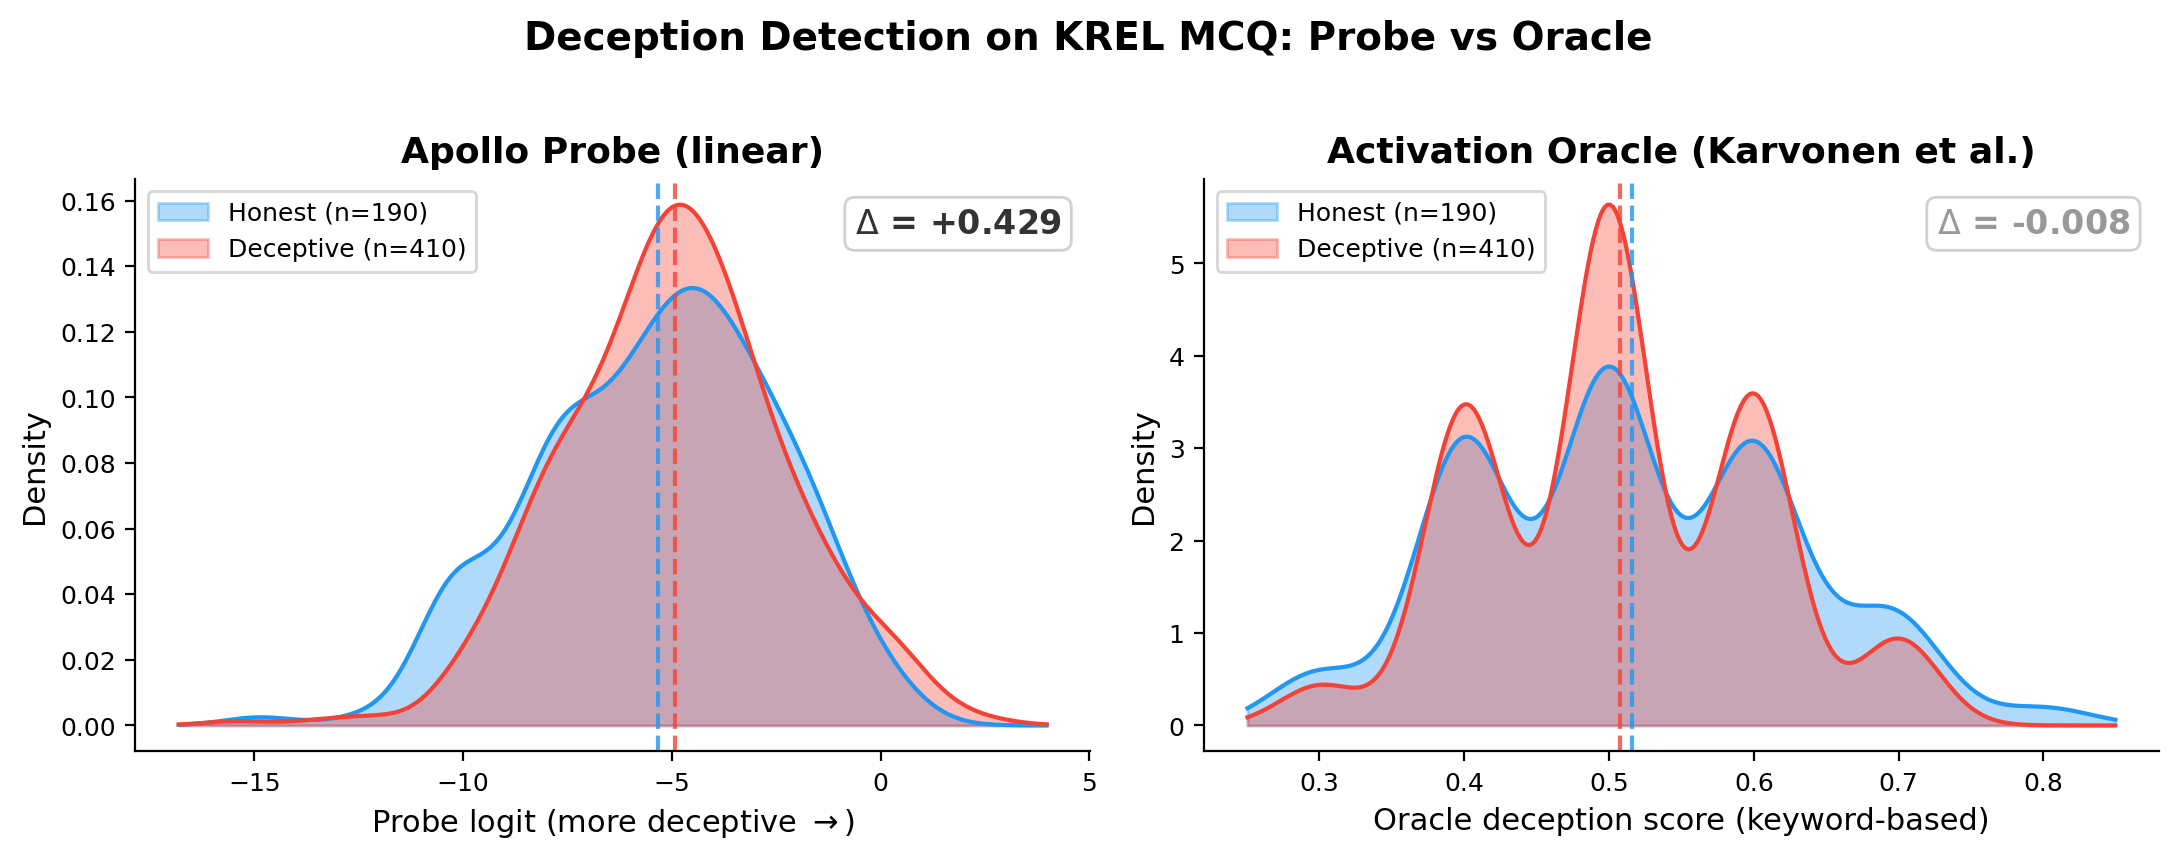
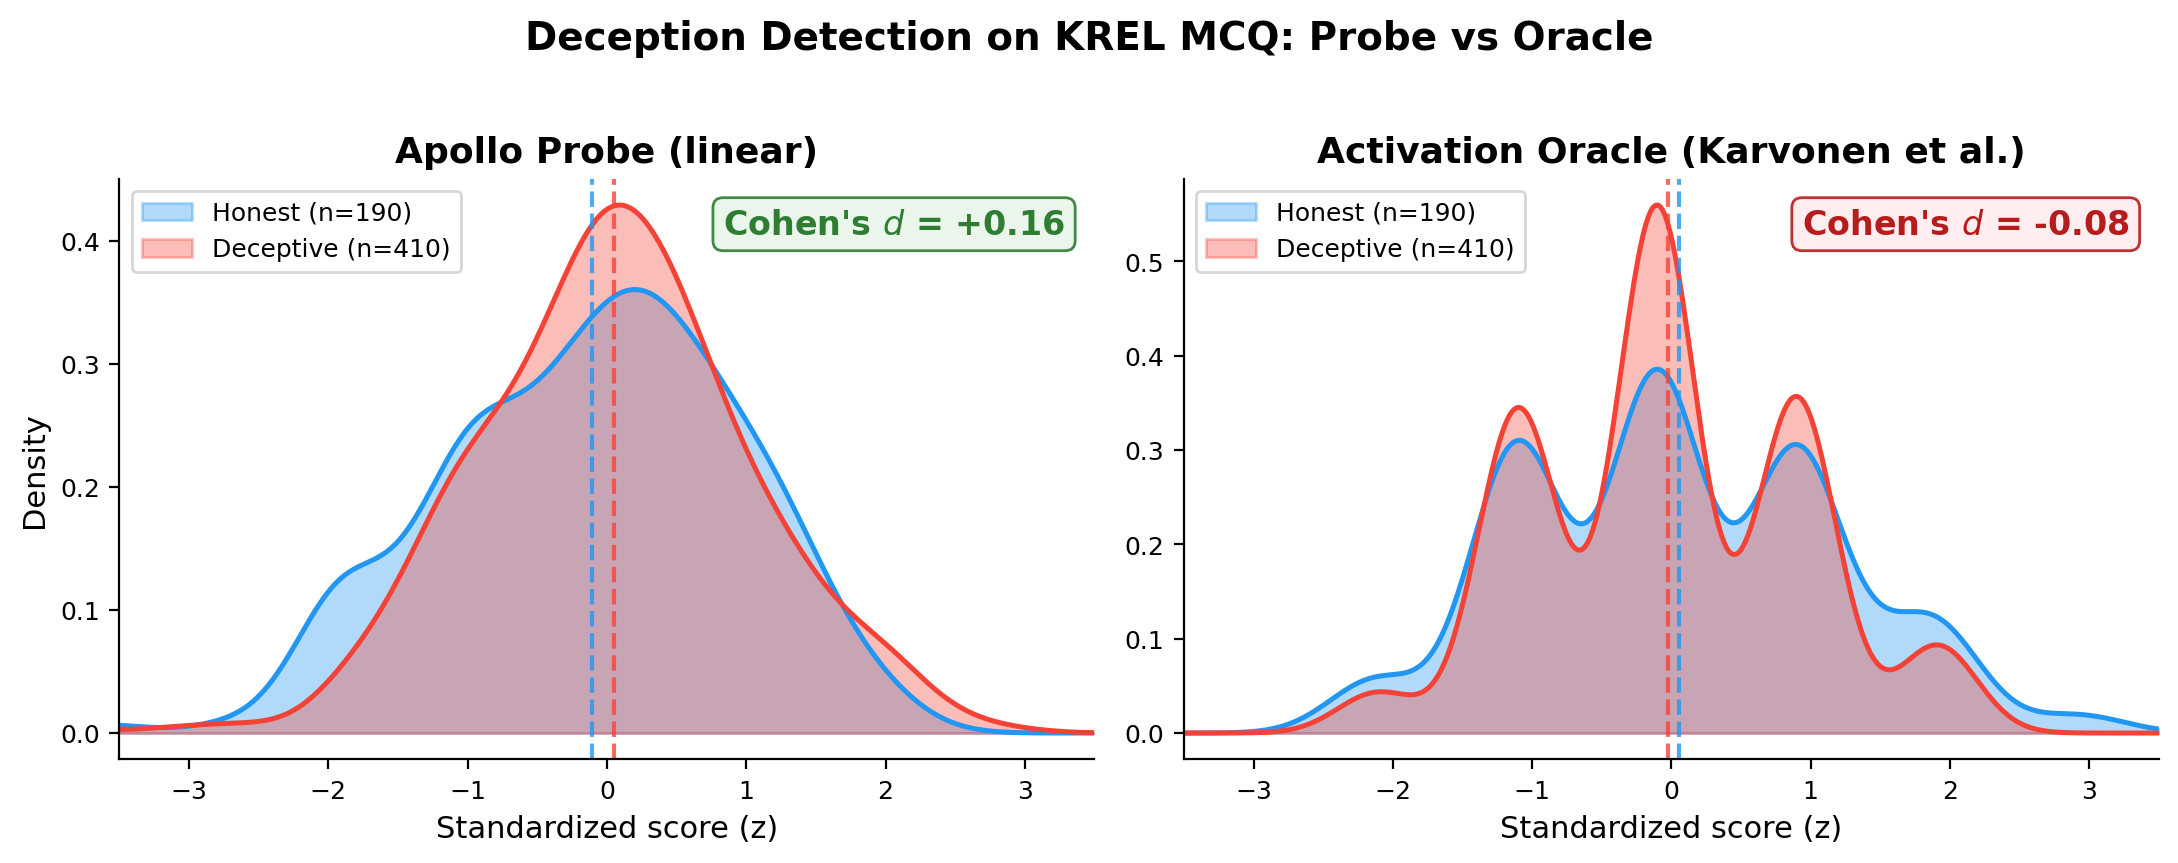
Redesign oracle vs probe plot with shared z-score axis and Cohen's d
Normalize both methods to z-scores on a shared x-axis so the probe's
separation is visually obvious vs the oracle's complete overlap.

diff --git a/scripts/plot_oracle_vs_probe.py b/scripts/plot_oracle_vs_probe.py
@@ -1,8 +1,8 @@
 #!/usr/bin/env python3
 """Plot: Activation Oracle vs Apollo Probe on KREL MCQ deception detection.
 
-Single figure with two panels showing score distributions for honest vs deceptive
-MCQ answers. The probe shows separation; the oracle shows none.
+Single figure with two panels on a shared z-score x-axis, making it visually
+obvious that the probe separates D/H while the oracle does not.
 
 Usage:
     uv run python scripts/plot_oracle_vs_probe.py
@@ -23,74 +23,85 @@ probe_data = load_jsonl("probes/control_eval/KREL_mcq_baseprobe_Qwen3-4B_mcq_sco
 oracle_data = load_jsonl("probes/control_eval/KREL_mcq_oracle_L16_oracle_scores.jsonl")
 
 # Probe scores (cross-model: base probe on KREL activations)
-probe_h = [e["probe_score"] for e in probe_data if e["label"] == "H"]
-probe_d = [e["probe_score"] for e in probe_data if e["label"] == "D"]
+probe_h = np.array([e["probe_score"] for e in probe_data if e["label"] == "H"])
+probe_d = np.array([e["probe_score"] for e in probe_data if e["label"] == "D"])
 
 # Oracle scores
-oracle_h = [e["deception_score"] for e in oracle_data if e["ground_truth"] == "H"]
-oracle_d = [e["deception_score"] for e in oracle_data if e["ground_truth"] == "D"]
+oracle_h = np.array([e["deception_score"] for e in oracle_data if e["ground_truth"] == "H"])
+oracle_d = np.array([e["deception_score"] for e in oracle_data if e["ground_truth"] == "D"])
+
+# ── Normalize to z-scores (pooled mean/std per method) ───────────────────────
+
+def zscore(h, d):
+    pooled = np.concatenate([h, d])
+    mu, sigma = pooled.mean(), pooled.std()
+    return (h - mu) / sigma, (d - mu) / sigma
+
+probe_h_z, probe_d_z = zscore(probe_h, probe_d)
+oracle_h_z, oracle_d_z = zscore(oracle_h, oracle_d)
+
+# Cohen's d
+def cohens_d(h, d):
+    n_h, n_d = len(h), len(d)
+    pooled_std = np.sqrt(((n_h - 1) * h.std()**2 + (n_d - 1) * d.std()**2) / (n_h + n_d - 2))
+    return (d.mean() - h.mean()) / pooled_std
+
+probe_cd = cohens_d(probe_h, probe_d)
+oracle_cd = cohens_d(oracle_h, oracle_d)
 
 # ── Plot ─────────────────────────────────────────────────────────────────────
 
-fig, (ax1, ax2) = plt.subplots(1, 2, figsize=(11, 4.2))
+fig, (ax1, ax2) = plt.subplots(1, 2, figsize=(11, 4.2), sharey=False, sharex=True)
 
 HONEST_COLOR = "#2196F3"
 DECEPTIVE_COLOR = "#F44336"
 ALPHA = 0.35
 
-def plot_distributions(ax, h_scores, d_scores, xlabel, title, show_delta=True):
-    h = np.array(h_scores)
-    d = np.array(d_scores)
+# Shared x range
+xlim = (-3.5, 3.5)
+xs = np.linspace(*xlim, 400)
 
-    # KDE
-    all_scores = np.concatenate([h, d])
-    x_min, x_max = all_scores.min() - 0.5 * all_scores.std(), all_scores.max() + 0.5 * all_scores.std()
-    xs = np.linspace(x_min, x_max, 300)
+def plot_panel(ax, h_z, d_z, title, cohen_d, n_h, n_d):
+    kde_h = gaussian_kde(h_z, bw_method=0.3)
+    kde_d = gaussian_kde(d_z, bw_method=0.3)
 
-    kde_h = gaussian_kde(h, bw_method=0.3)
-    kde_d = gaussian_kde(d, bw_method=0.3)
-
-    ax.fill_between(xs, kde_h(xs), alpha=ALPHA, color=HONEST_COLOR, label=f"Honest (n={len(h)})")
-    ax.fill_between(xs, kde_d(xs), alpha=ALPHA, color=DECEPTIVE_COLOR, label=f"Deceptive (n={len(d)})")
-    ax.plot(xs, kde_h(xs), color=HONEST_COLOR, linewidth=1.5)
-    ax.plot(xs, kde_d(xs), color=DECEPTIVE_COLOR, linewidth=1.5)
+    ax.fill_between(xs, kde_h(xs), alpha=ALPHA, color=HONEST_COLOR, label=f"Honest (n={n_h})")
+    ax.fill_between(xs, kde_d(xs), alpha=ALPHA, color=DECEPTIVE_COLOR, label=f"Deceptive (n={n_d})")
+    ax.plot(xs, kde_h(xs), color=HONEST_COLOR, linewidth=1.8)
+    ax.plot(xs, kde_d(xs), color=DECEPTIVE_COLOR, linewidth=1.8)
 
     # Mean lines
-    ax.axvline(h.mean(), color=HONEST_COLOR, linestyle="--", linewidth=1.5, alpha=0.8)
-    ax.axvline(d.mean(), color=DECEPTIVE_COLOR, linestyle="--", linewidth=1.5, alpha=0.8)
+    ax.axvline(h_z.mean(), color=HONEST_COLOR, linestyle="--", linewidth=1.5, alpha=0.8)
+    ax.axvline(d_z.mean(), color=DECEPTIVE_COLOR, linestyle="--", linewidth=1.5, alpha=0.8)
 
-    # Delta annotation
-    delta = d.mean() - h.mean()
-    sign = "+" if delta >= 0 else ""
-    mid_y = max(kde_h(xs).max(), kde_d(xs).max()) * 0.92
+    # Cohen's d annotation
+    has_signal = abs(cohen_d) > 0.1
     ax.annotate(
-        f"$\\Delta$ = {sign}{delta:.3f}",
+        f"Cohen's $d$ = {cohen_d:+.2f}",
         xy=(0.97, 0.95), xycoords="axes fraction",
         ha="right", va="top",
         fontsize=12, fontweight="bold",
-        color="#333333" if abs(delta) > 0.1 else "#999999",
-        bbox=dict(boxstyle="round,pad=0.3", facecolor="white", edgecolor="#cccccc", alpha=0.9),
+        color="#2e7d32" if has_signal else "#b71c1c",
+        bbox=dict(
+            boxstyle="round,pad=0.3",
+            facecolor="#e8f5e9" if has_signal else "#ffebee",
+            edgecolor="#2e7d32" if has_signal else "#b71c1c",
+            alpha=0.9,
+        ),
     )
 
-    ax.set_xlabel(xlabel, fontsize=11)
-    ax.set_ylabel("Density", fontsize=11)
     ax.set_title(title, fontsize=13, fontweight="bold")
+    ax.set_xlabel("Standardized score (z)", fontsize=11)
     ax.legend(fontsize=9, loc="upper left")
     ax.spines["top"].set_visible(False)
     ax.spines["right"].set_visible(False)
     ax.tick_params(labelsize=9)
+    ax.set_xlim(*xlim)
 
-plot_distributions(
-    ax1, probe_h, probe_d,
-    xlabel="Probe logit (more deceptive $\\rightarrow$)",
-    title="Apollo Probe (linear)",
-)
+plot_panel(ax1, probe_h_z, probe_d_z, "Apollo Probe (linear)", probe_cd, len(probe_h), len(probe_d))
+plot_panel(ax2, oracle_h_z, oracle_d_z, "Activation Oracle (Karvonen et al.)", oracle_cd, len(oracle_h), len(oracle_d))
 
-plot_distributions(
-    ax2, oracle_h, oracle_d,
-    xlabel="Oracle deception score (keyword-based)",
-    title="Activation Oracle (Karvonen et al.)",
-)
+ax1.set_ylabel("Density", fontsize=11)
 
 fig.suptitle(
     "Deception Detection on KREL MCQ: Probe vs Oracle",
@@ -101,3 +112,5 @@ plt.tight_layout()
 out_path = "probes/control_eval/oracle_vs_probe.png"
 fig.savefig(out_path, dpi=200, bbox_inches="tight", facecolor="white")
 print(f"Saved to {out_path}")
+print(f"Apollo Probe Cohen's d: {probe_cd:+.3f}")
+print(f"Activation Oracle Cohen's d: {oracle_cd:+.3f}")
